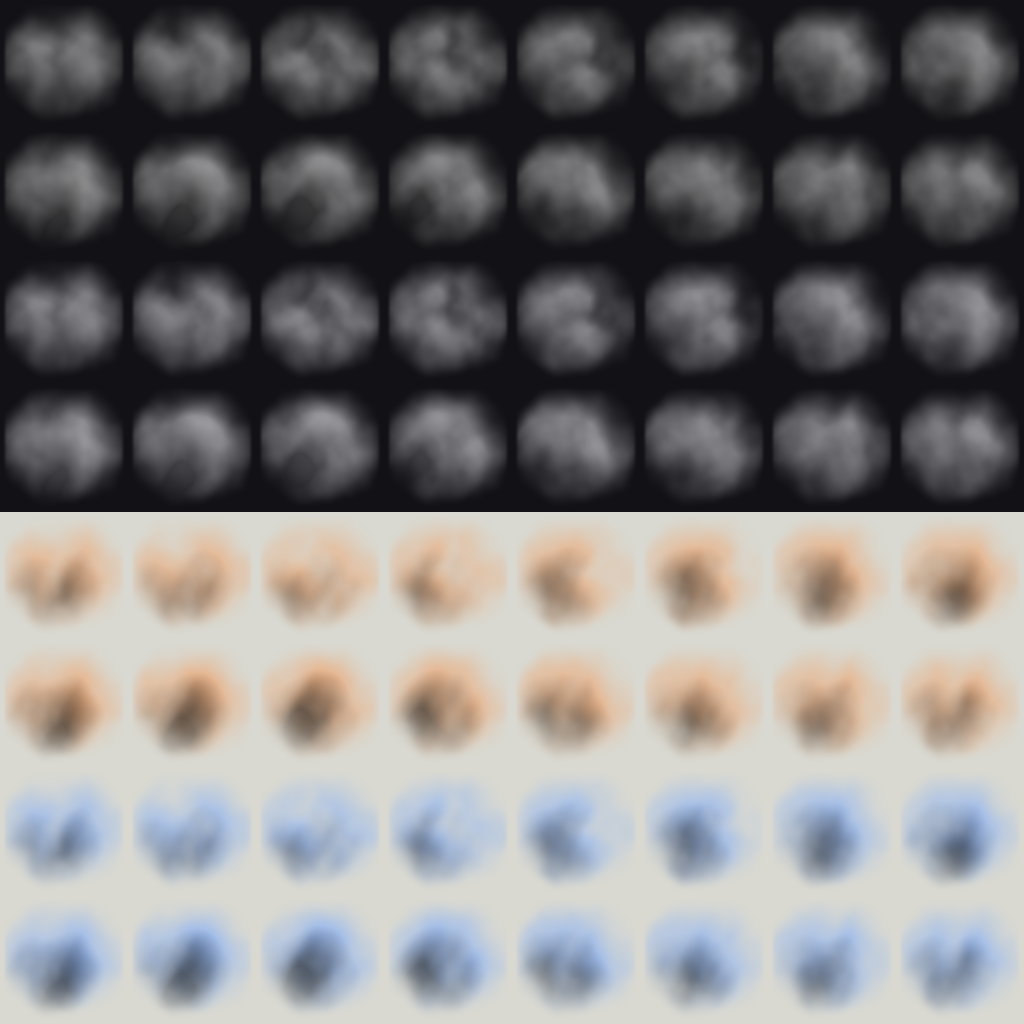
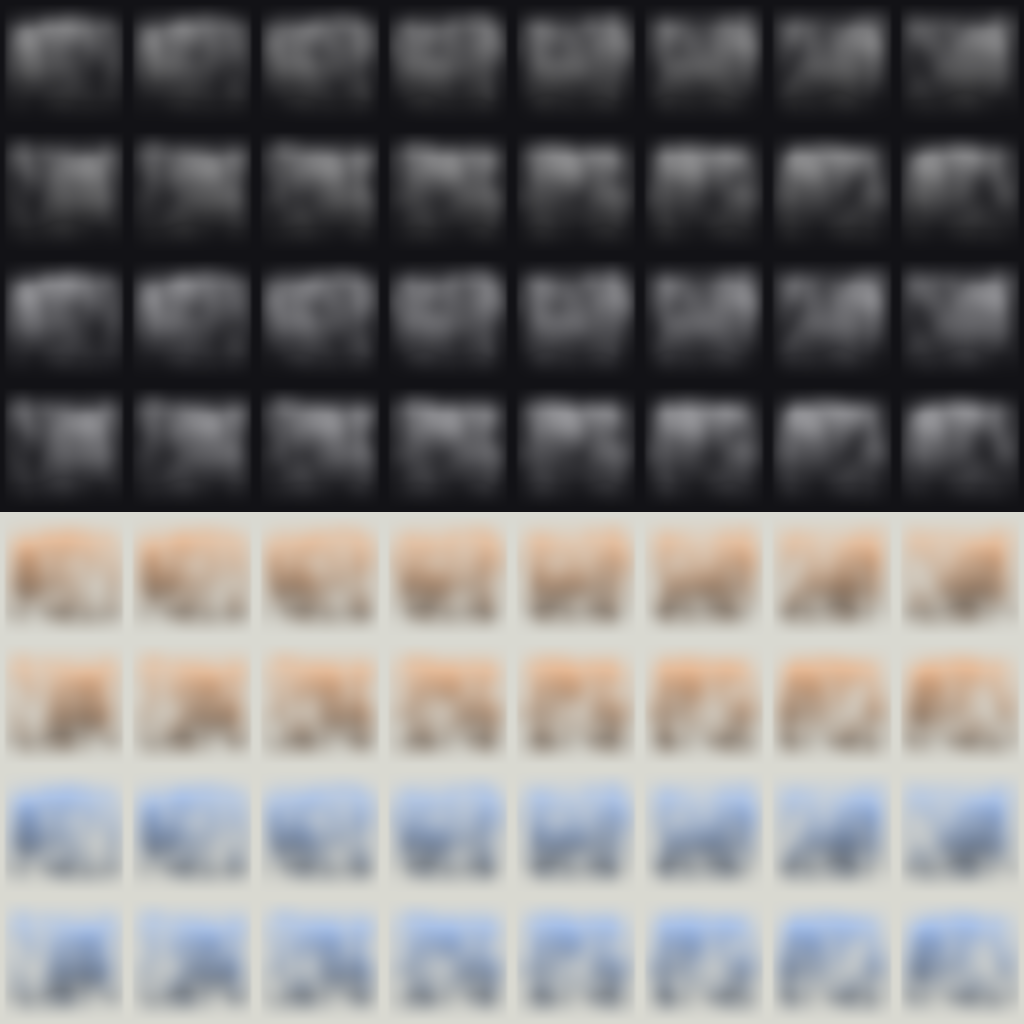
VFX ticket V1.1 send-back: VfxMist is now a wide soft layered bank with no outline (a noise volume drifting one period per loop, passes the check), and VfxDustRoll is rebuilt as dust spreading along the floor with the floor at the bottom of each cell and no vertical stretch (a hand-built cast of clo

diff --git a/art/scripts/vfx/tex_smoke.py b/art/scripts/vfx/tex_smoke.py
@@ -7,8 +7,10 @@ shadow), then reframed, eroded where a one-shot has to break into islands, close
 and packed into a 1024 x 1024 sheet with vfx/draw.py. White and grey, so the game tints it; the grey is the smoke's own
 light and shade. (Why not Cycles: a headless Cycles render of the fluid domain showed nothing from the baked cache, so
 the baked density is rendered by this file's own ray-marcher. The simulation itself is Blender's.)
-VfxMist is the exception: a fog bank is a 3D noise volume whose noise orbits (it closes the loop exactly), not a
-simulation; it is lit and packed by the same code.
+VfxMist and VfxDustRoll are the exceptions: the mist is a layered 3D noise volume whose noise drifts a whole period
+per loop (it closes exactly), and the dust is a made-up cast of billowing cloudlets flown out along the floor (six
+baked sims of a floor burst all rolled up instead of along). Neither is a simulation; both are lit and packed by the
+same code.
 
     blender -b --factory-startup --python art/scripts/vfx/tex_smoke.py -- [names] [--sim] [--post] [--cache DIR]
 
@@ -87,25 +89,24 @@ SIM["VfxSmokePlume"] = dict(
 )
 
 SIM["VfxDustRoll"] = dict(
-    grid=8, mode="oneshot", cell=128,
-    sim=dict(
-        domain_scale=(1.0, 0.7, 0.8), res=160, vorticity=0.35, buoy_density=1.0, buoy_heat=0.0, time_scale=1.3,
-        dissolve=0, frames=64, floor=True,
-        flows=[dict(pos=(0.0, 0.0, -0.8), radius=0.28, scale=(1.7, 1.7, 0.9), density=1.0, temperature=0.0,
-                    v_normal=4.5, v_random=1.0, on=1, off=11, grow=(1, 9, 0.2, 1.0))],
-        forces=[dict(type="TURBULENCE", strength=0.8, size=0.3, flow=0.5)],
-    ),
+    # NOT a gas simulation (said in the Log): five baked sims of a floor burst (a ball, two jets, jets under a low
+    # ceiling, a slumping block, a heavy block) each rolled the dust up into lobes, a bush or a film instead of
+    # along the floor. So this is the volume route: a cast of billowing cloudlets flown out along the floor with
+    # drag (the fast ones are the head, the slow ones the body, long wisps trail), lit, eroded and packed like the
+    # others.
+    grid=8, mode="oneshot", cell=128, procedural="dust", frames=64, dims=(260, 36, 104),
     look=dict(
-        sigma=lambda life: 0.16, blur=3, lump=(0.9, 1.1), blur_after=2, stretch_z=1.5, follow="x", fit_until=0.55,
-        erode=lambda life: 0.0 if life < 0.4 else 1.25 * ((life - 0.4) / 0.6) ** 1.2,
+        sigma=lambda life: 0.24, sun=1.0, amb=0.55, fill=0.18, k_sun=0.5, k_amb=0.12, follow="floor", fit=0.82,
+        box_alpha=0.15,
     ),
 )
 
 SIM["VfxMist"] = dict(
     # (not a gas simulation: fog does not come out of one. A baked smoke sim of a fog bank came out as cigarette
     # streaks, so the bank is a 3D noise volume whose noise orbits through space, which closes the loop exactly.)
-    grid=4, mode="loop", cell=256, procedural=True, frames=16, dims=(144, 20, 144),
-    look=dict(sigma=lambda life: 0.15, sun=1.0, amb=0.85, fill=0.22, k_sun=0.55, k_amb=0.12),
+    grid=4, mode="loop", cell=256, procedural=True, frames=16, dims=(192, 16, 172),
+    look=dict(sigma=lambda life: 0.11, sun=1.0, amb=0.9, fill=0.55, k_sun=0.13, k_amb=0.05, fit=0.97, tone=(0.28, 1.0), box_alpha=0.1, flatten=(0.0, 0.6),
+        calm_thin=(0.08, 0.5)),
 )
 
 
@@ -146,7 +147,8 @@ def build_domain(sim, cache):
         ds.dissolve_speed = sim["dissolve"]
         ds.use_dissolve_smoke_log = True
     for side in ("front", "back", "right", "left", "top", "bottom"):
-        setattr(ds, f"use_collision_border_{side}", side == "bottom" and sim.get("floor", False))
+        setattr(ds, f"use_collision_border_{side}",
+                (side == "bottom" and sim.get("floor", False)) or (side == "top" and sim.get("ceiling", False)))
     ds.use_adaptive_timesteps = True
     ds.cfl_condition = sim.get("cfl", 4.0)
     for k, v in sim.get("domain", {}).items():
@@ -170,7 +172,7 @@ def add_flows(sim):
             bpy.context.active_object.scale = f["size"]
         obj = bpy.context.active_object
         obj.name = f.get("name", "Flow")
-        base = tuple(f.get("scale", (1.0, 1.0, 1.0)))
+        base = tuple(f.get("scale", f.get("size", (1.0, 1.0, 1.0))))
         obj.scale = base
         if "grow" in f:  # (frame0, frame1, s0, s1): the source swells (a puff is born small; a ring spreads out)
             f0, f1, s0, s1 = f["grow"]
@@ -412,30 +414,149 @@ def erosion_field(dims, seed=11):
 
 
 def mist_volume(k, n, dims):
-    """Frame k of n of the fog bank: soft billows from layered noise that orbits (so frame n is frame 0 again),
-    inside a wobbly elliptical bank that is thin front to back and thicker low down. Index order (x, depth, up)."""
+    """Frame k of n of a bank of fog: several soft horizontal layers of different thickness and height, each broken
+    into long patches by noise that is stretched along the bank, the layers drifting in different directions (one
+    whole noise period per loop, so frame n is frame 0 again), all fading to nothing before the cell's edge so the
+    bank has no outline. Index order (x, depth, up)."""
     nx, ny, nz = dims
-    th = 2 * math.pi * k / n
     x = np.linspace(-1.0, 1.0, nx, dtype=np.float32)[:, None, None]
-    y = np.linspace(-0.3, 0.3, ny, dtype=np.float32)[None, :, None]
+    y = np.linspace(-0.25, 0.25, ny, dtype=np.float32)[None, :, None]
     z = np.linspace(-0.9, 0.9, nz, dtype=np.float32)[None, None, :]
     xx, yy, zz = np.broadcast_arrays(x, y, z)
-    big = N.fbm3(xx * 1.35 + 0.8 * math.cos(th), zz * 1.35 + 0.8 * math.sin(th), yy * 2.5 + 0.15 * math.sin(2 * th),
-                 octaves=3, seed=21, period=(None, None, None))
-    mid = N.fbm3(xx * 3.0 - 0.6 * math.cos(2 * th + 1.0), zz * 3.0 + 0.6 * math.sin(2 * th + 1.0),
-                 yy * 4.0 - 0.2 * math.cos(th), octaves=3, seed=57)
-    fine = N.fbm3(xx * 9.0 + 0.4 * math.sin(3 * th), zz * 9.0 + 0.4 * math.cos(3 * th), yy * 7.0, octaves=2, seed=93)
-    n01 = 0.50 + 0.66 * big + 0.24 * mid + 0.03 * fine
-    wob = N.fbm2(x[:, 0, :] * 1.3 + 3.0, z[:, 0, :] * 1.3 - 2.0, octaves=3, seed=5)[:, None, :]  # fixed: the bank's outline
-    r = np.sqrt((xx / 0.94) ** 2 + (zz / (0.70 + 0.10 * wob)) ** 2) * (1.0 + 0.34 * wob)
-    env = smoothstep(1.0, 0.15, r)
-    depth = np.exp(-((yy / 0.22) ** 2))
-    low = 1.0 + 0.40 * np.clip(-zz / 0.8, -1, 1)  # a little denser towards the ground
-    d = (env * depth * low * smoothstep(0.05, 0.95, n01)).astype(np.float32)
-    return blur3(blur3(blur3(d)))
+    u = (xx + 1.0) * 2.0  # four lattice cells across; the period is 2 cells = half the bank per loop
+    t = k / n
+    layers = (  # (height, thickness, strength, drift in periods per loop, noise seed, wobble phase)
+        (-0.50, 0.30, 0.85, 1, 11, 0.0),
+        (-0.12, 0.24, 0.65, -1, 23, 1.7),
+        (0.22, 0.30, 0.85, 1, 37, 3.1),
+        (0.58, 0.24, 0.55, -1, 51, 4.4),
+    )
+    total = np.zeros(xx.shape, dtype=np.float32)
+    for height, thick, strength, drift, seed, ph in layers:
+        # long patches along x (low frequency in x, higher in z), drifting one period per loop
+        patch = N.fbm3(u * 0.6 + 2.0 * drift * t, zz * 0.7 + seed, yy * 0.8, octaves=2, seed=seed,
+                       period=(2, None, None))
+        wave = 0.05 * N.fbm3(u * 0.5 + 2.0 * drift * t + 5.0, zz * 0.0 + seed, yy * 0.0, octaves=2, seed=seed + 5,
+                             period=(2, None, None)) + 0.03 * math.sin(2 * math.pi * (t * drift) + ph)
+        band = np.exp(-(((zz - height - wave) / thick) ** 2))
+        total += strength * band * smoothstep(-0.55, 0.6, patch)
+    veil = 0.10 * smoothstep(-0.3, 0.5, N.fbm3(u * 0.5 - 2.0 * t, zz * 1.0, yy, octaves=2, seed=3, period=(2, None, None)))
+    total = total + veil * np.exp(-((zz / 0.85) ** 2))
+    depth = np.exp(-((yy / 0.2) ** 2))
+    edge_x = smoothstep(1.0, 0.45, np.abs(xx)) ** 1.5  # fades to nothing before the side edges
+    edge_z = smoothstep(0.9, 0.4, np.abs(zz))
+    d = (total * depth * edge_x * edge_z).astype(np.float32)
+    return blur3(blur3(d))
+
+
+_DUST = {}
+
+
+def dust_puffs(seed=4):
+    """The made-up cast of a dust roll, fixed by a seed: per side a run of cloudlets that leave the hit at different
+    speeds (so the fastest are the head and the slow ones are the body), the front ones bigger and rising, plus long
+    low wisps trailing behind. Each is (x end, radius end, rise, launch, speed, hardness, lump offset, kind)."""
+    rng = np.random.default_rng(seed)
+    cast = []
+    for side, scale in ((1.0, 1.0), (-1.0, 0.86)):
+        for i in range(22):
+            far = rng.uniform(0.22, 1.0) ** 0.8  # how far it ends (1 = the head)
+            cast.append(dict(side=side, kind="puff", x=0.70 * scale * far + rng.normal(0, 0.03),
+                             r=0.05 + 0.17 * far ** 0.9 * rng.uniform(0.65, 1.25), rise=0.30 * far ** 2.2 * rng.uniform(0.4, 1.2),
+                             t0=rng.uniform(0.0, 0.07), tau=rng.uniform(0.12, 0.2), y=rng.normal(0, 0.07),
+                             amp=rng.uniform(0.75, 1.0), off=rng.uniform(0, 60, 3)))
+        for i in range(9):  # the body: low flat sheets of dust between the hit and the head
+            far = rng.uniform(0.12, 0.62)
+            cast.append(dict(side=side, kind="sheet", x=0.70 * scale * far, r=0.07 + 0.04 * rng.random(), rise=0.02 * rng.random(),
+                             t0=rng.uniform(0.0, 0.08), tau=rng.uniform(0.14, 0.22), y=rng.normal(0, 0.08),
+                             amp=rng.uniform(0.55, 0.8), off=rng.uniform(0, 60, 3)))
+        for i in range(10):  # the trailing wisps: long, low, faint, left behind
+            far = rng.uniform(0.2, 0.8)
+            cast.append(dict(side=side, kind="wisp", x=0.72 * scale * far, r=0.045 + 0.04 * rng.random(), rise=0.03 * rng.random(),
+                             t0=rng.uniform(0.02, 0.16), tau=rng.uniform(0.14, 0.24), y=rng.normal(0, 0.08),
+                             amp=rng.uniform(0.35, 0.6), off=rng.uniform(0, 60, 3)))
+    return cast
+
+
+def dust_volume(k, n, dims):
+    """Frame k of n of dust rolling along the floor from a hit at the middle. The cast of cloudlets (dust_puffs) is
+    flown out along the floor with drag (fast ones stop far, slow ones near), each growing and billowing with lumps
+    that belong to it, thinning as it spreads; the hit's own puff stands over the origin and sinks; then the rising
+    cut eats the whole thing from its thin parts first into islands. Index order (x, depth, up); z = 0 is the floor."""
+    if "lump" not in _DUST:
+        _DUST["lump"] = lump_tile(9)
+        _DUST["cast"] = dust_puffs()
+    tile, cast = _DUST["lump"], _DUST["cast"]
+    nx, ny, nz = dims
+    tau = k / (n - 1)
+    gx = np.linspace(-1.3, 1.3, nx, dtype=np.float32)
+    gy = np.linspace(-0.3, 0.3, ny, dtype=np.float32)
+    gz = np.linspace(0.0, 1.04, nz, dtype=np.float32)
+    free = np.ones((nx, ny, nz), dtype=np.float32)  # 1 - (union of cloudlets): they merge instead of adding up
+    sx, sy, sz = gx[1] - gx[0], gy[1] - gy[0], gz[1] - gz[0]
+
+    def splat(cx, cy, cz, rx, ry, rz, amp, off, lumpy_scale):
+        x0, x1 = max(0, int((cx - 2.3 * rx + 1.3) / sx)), min(nx, int((cx + 2.3 * rx + 1.3) / sx) + 2)
+        y0, y1 = max(0, int((cy - 2.3 * ry + 0.3) / sy)), min(ny, int((cy + 2.3 * ry + 0.3) / sy) + 2)
+        z0, z1 = 0, min(nz, int((cz + 2.3 * rz) / sz) + 2)
+        if x1 <= x0 or y1 <= y0 or z1 <= z0:
+            return
+        X = (gx[x0:x1] - cx)[:, None, None]
+        Y = (gy[y0:y1] - cy)[None, :, None]
+        Z = (gz[z0:z1] - cz)[None, None, :]
+        r2 = (X / rx) ** 2 + (Y / ry) ** 2 + (Z / rz) ** 2
+        # the lumps belong to the cloudlet: a noise cube looked up relative to its centre and size
+        qx = ((X / rx * lumpy_scale + off[0]).astype(np.int64)) % TILE_N
+        qy = ((Y / ry * lumpy_scale + off[1]).astype(np.int64)) % TILE_N
+        qz = ((Z / rz * lumpy_scale + off[2]).astype(np.int64)) % TILE_N
+        n3 = tile[qx, qy, qz]
+        body = np.exp(-r2 * (0.9 + 1.7 * (1.0 - n3)))  # the lumps pinch the surface in, so the edge is cauliflower
+        d = amp * np.clip(body * (0.35 + 1.3 * n3), 0, 1.4)
+        free[x0:x1, y0:y1, z0:z1] *= np.clip(1.0 - np.clip(d, 0, 1), 0, 1)
+
+    for c in cast:
+        t = tau - c["t0"]
+        if t <= 0:
+            continue
+        move = 1 - np.exp(-t / c["tau"])
+        cx = c["side"] * (0.02 + (c["x"] - 0.02) * move)
+        grow = 1 - np.exp(-t / (c["tau"] * 1.3))
+        R = 0.02 + (c["r"] - 0.02) * grow
+        cz = 0.7 * R + c["rise"] * move
+        if c["kind"] == "puff":
+            amp = c["amp"] * min(1.0, t / 0.025) * (0.03 / R) ** 0.55 * 1.9
+            splat(cx, c["y"], cz, R * 1.15, R * 1.3, R * 0.95, amp, c["off"], 13.0)
+        elif c["kind"] == "sheet":
+            amp = c["amp"] * min(1.0, t / 0.03) * (0.06 / R) ** 0.4
+            splat(cx, c["y"], 0.8 * R + c["rise"] * move, R * 3.4, R * 1.5, R * 1.25, amp, c["off"], 14.0)
+        else:  # a wisp: stretched along the floor and thin
+            amp = c["amp"] * min(1.0, t / 0.04) * (0.05 / R) ** 0.4
+            splat(cx, c["y"], 0.5 * R, R * 3.2, R * 1.2, R * 0.55, amp, c["off"], 16.0)
+    # the hit's own puff over the origin: stands up fast, then sinks into the roll
+    hz = 0.09 + 0.10 * np.exp(-tau * 6.0)
+    splat(0.0, 0.0, hz, 0.13 + 0.05 * tau, 0.15, hz * 1.1, 1.15 * (1 - smoothstep(0.08, 0.34, tau)), np.array([5.0, 9.0, 13.0]), 8.0)
+    d = 1.0 - free
+    # the rising cut: eaten from its thin parts first, in lumps, islands at the end
+    if tau > 0.40:
+        cut = 3.4 * ((tau - 0.40) / 0.60) ** 1.1
+        eat = N.fbm3(gx[:, None, None] * 4.0 + 3.0 * tau, gz[None, None, :] * 5.0, gy[None, :, None] * 4.0, octaves=4, seed=77)
+        d = np.maximum(d - cut * (0.12 + 0.55 * (0.5 + eat)), 0.0)
+    return blur3(d.astype(np.float32))
 
 
 def render_frames(name, work, spec):
+    if spec.get("procedural") == "dust":
+        look = spec["look"]
+        n = spec["frames"]
+        rads, alphas = [], []
+        for k in range(n):
+            d = dust_volume(k, n, spec["dims"])
+            sigma = d * look["sigma"](k / n)
+            rad, alpha = march(sigma, light_depth(sigma), look)
+            rads.append(rad)
+            alphas.append(alpha)
+            print(f"[tex_smoke] {name} lit {k + 1}/{n}", flush=True)
+        return np.stack(rads), np.stack(alphas), {}
     if spec.get("procedural"):
         look = spec["look"]
         n = spec["frames"]
@@ -541,7 +662,7 @@ def frame_images(rads, alphas, spec, cell):
     follow = look.get("follow", "")
     until = max(1, int(n * look.get("fit_until", 1.0)))  # the window is fitted to the frames up to here
     sized = [b for b in boxes[:until] if b]
-    if follow:
+    if follow in ("xy", "x"):
         side = max(max((b[1] - b[0]) * stretch_x, (b[3] - b[2]) * stretch) for b in sized) / fit
     else:
         ux0, ux1 = min(b[0] for b in good), max(b[1] for b in good)
@@ -559,11 +680,14 @@ def frame_images(rads, alphas, spec, cell):
         pad = np.concatenate([np.repeat(v[:1], r), v, np.repeat(v[-1:], r)])
         return np.convolve(pad, np.ones(2 * r + 1) / (2 * r + 1), mode="valid")
 
-    if follow:
+    if follow in ("xy", "x"):
         cxs, cys = smooth(cxs), smooth(cys)
         if follow == "x":
             floor = max(b[3] for b in good)
             cys = np.full(n, floor + 0.04 * side / stretch - side / stretch / 2)
+    elif follow == "floor":  # one fixed window, the floor (the lowest row ever lit) kept just above the cell's bottom
+        cxs = np.full(n, (ux0 + ux1) / 2)
+        cys = np.full(n, uy1 + 0.04 * side / stretch - side / stretch / 2)
     else:
         cxs = np.full(n, (ux0 + ux1) / 2 + look.get("shift", (0, 0))[0] * side)
         cys = np.full(n, (uy0 + uy1) / 2 + look.get("shift", (0, 0))[1] * side)
@@ -576,6 +700,36 @@ def frame_images(rads, alphas, spec, cell):
         r = resample(ra[k], ox, oy, step, cell, stretch, stretch_x)
         rgb = np.clip(r / np.maximum(a, 1e-4), 0, 4)
         out.append(np.concatenate([np.repeat(rgb[..., None], 3, axis=2), a[..., None]], axis=-1))
+    return out
+
+
+def flatten(frames, amount, vgrad):
+    """Fog is lit softly and evenly: pull each frame's grey toward its own mean (so deep shadow pockets do not make
+    the thin edge look like a bright outline) and add a gentle lighter-above, darker-below slope."""
+    out = []
+    for f in frames:
+        a = f[..., 3]
+        mean = (f[..., 0] * a).sum() / max(a.sum(), 1e-4)
+        v = mean + (f[..., 0] - mean) * (1 - amount)
+        h = f.shape[0]
+        slope = 1.0 + vgrad * (0.5 - (np.arange(h, dtype=np.float32) / h))[:, None]
+        g = f.copy()
+        g[..., :3] = (v * slope)[..., None]
+        out.append(g)
+    return out
+
+
+def calm_thin(frames, a0, a1):
+    """The thin edge of a cloud is lit with nothing in front of it, so it comes out brighter than the body and, once
+    the game lays it over a floor, shows as a bright rim round the sprite. Thin parts take the frame's own mean grey."""
+    out = []
+    for f in frames:
+        a = f[..., 3]
+        mean = (f[..., 0] * a).sum() / max(a.sum(), 1e-4)
+        k = smoothstep(a0, a1, a)
+        g = f.copy()
+        g[..., :3] = (f[..., 0] * k + mean * (1 - k))[..., None]
+        out.append(g)
     return out
 
 
@@ -605,6 +759,10 @@ def build_sheet(name, work, spec):
     cell = SHEET // spec["grid"]
     rads, alphas, meta = render_frames(name, work, spec)
     frames = frame_images(rads, alphas, spec, cell)
+    if "calm_thin" in spec["look"]:
+        frames = calm_thin(frames, *spec["look"]["calm_thin"])
+    if "flatten" in spec["look"]:
+        frames = flatten(frames, *spec["look"]["flatten"])
     frames = tonemap(frames, spec["look"])
     win = edge_window(cell)
     for f in frames:

diff --git a/docs/handoff/vfx-rework-plan-2026-11-16.md b/docs/handoff/vfx-rework-plan-2026-11-16.md
@@ -618,3 +618,4 @@ verdict where there was a gate.)
 
   Against the references (smoke_dust.toml and its sheets; the same day's eyes, not the game's). Puff against the dust-ring frames (smoke_dust_impact_fine, 0.5 to 0.75 s): the reference is a rosette of cauliflower lumps with radial streaks that breaks into clumps and sags; ours is a rounder lumpy ball with a lit top and a dark belly that thins to wisps, but it has no hollow middle and no radial streaks, and it ends in one or two wisps rather than a field of islands (isl 1 to 2). Plume against the rising-smoke frames (smoke_dust_plume): the reference is a thin braided stem that rolls into paired curls and one big billow; ours is a fat ragged column with lumpy shading and no paired curls (the sim's own curls are lost under the lumps and the sideways stretch), so it reads as a column of smoke but not as that one. Dust against the stock bursts (smoke_dust_impact_fine, 14 to 15.5 s, and the ring): the reference is a flat wedge with a pointed tail or a hollow rosette in the ground's tan; ours is a floor-hugging mound that rises into a streaky, hairy-topped bush (the sim's sinking fingers survive the blur) and is not a ring or a wedge; it does not roll along the floor. Mist against the fog frames (smoke_dust_fog): the reference is an edgeless mass with slow curls and thin filaments at the edges; ours is a compact soft patch with a clear outline, much smaller than a fog bank, and it churns in place rather than curling.
   What is weak: the dust is the weakest (streaky top, no real roll, last frames near empty because the sim has thinned out); the plume has no stem and no paired curls; the mist is a blob, not a bank; the puff's last third is mostly one small wisp. The vertical stretch of the dust (1.5) and the sideways stretch of the plume (1.2) are art-directed to get past the fill check, not physics; the game should scale those particles back. The erosion and lumps run on the density in numpy (the sim only fades), so the break-up edges are the noise's, not the gas's. Not done and not checked: nothing was played in the engine (no flipbook was seen in game or on a lit floor), the old VfxSmoke, VfxDust and VfxWisp stay untouched and in use, and a re-look in the booth over the realm's real light is owed. By eye the puff and plume are clearly better than VfxSmoke (a 19% soft grey ball with no lumps); the dust is larger, shaded and erodes where VfxDust (31%, never breaks up) does not, but it is not clearly better by eye, so keep VfxDust until the pilot decides; the mist is new (no old equivalent). Old names stay until Stage 4 in any case.
+- 2026-11-17, V1.1 send-back rework: VfxDustRoll and VfxMist (art/scripts/vfx/tex_smoke.py, the two PNGs and their previews; nothing to sync or import). VfxSmokePuff and VfxSmokePlume unchanged (accepted). `VfxMist` is rebuilt as a bank: five hand-set soft layers (thickness 0.24 to 0.30 of the bank, low to high) broken into long patches by noise stretched along the bank, each layer drifting one whole noise period per loop (alternating directions, so frame 16 is frame 0 again), fading to nothing before the cell's sides and top and bottom so there is no outline, lit softly from above (darker below) and with the thin edge pulled to the frame's mean grey so no bright rim shows round it. Still not a simulation (the plan's fallback, same reason as before). Numbers: fill 77% (76% mean), edge 0/16, tone 0.128, motion 0.019 (wrap 0.017), PASS. Against smoke_dust_fog: the reference is an edgeless mass with slow curls and bright and dark sides; ours is now a wide soft haze with no outline, brighter at the top and drifting in layers, but its layers are faint (the bands read as a gentle horizontal grain, not clear strata), it fills the whole cell like a block of haze with slightly squared corners, and it has no curls. `VfxDustRoll` is rebuilt as dust spreading along the floor from a hit, seen from the side, with the floor kept at the bottom of every cell and NO vertical stretch. It is NOT a gas simulation: the baked sims tried (a swelling ball on the floor, two outward jets along it, jets under a low closed ceiling, a heavy block slumping with positive and with negative buoyancy density, a long low block) each either rolled the dust up into lobes or a bush or slumped it into a film a few voxels thin that could not be read; the plan's own fallback applies. So it is the volume route: a made-up cast of about 40 billowing cloudlets per side flown out along the floor with drag (the fast, big, higher ones are the head and outrun the rest, the slow ones are the body, low flat sheets fill between, long faint wisps trail), each with its own noise lumps carried with it, the hit's own puff standing over the origin and sinking, lit with the same ray-march, then eaten from its thin parts by a rising noise cut into islands. Numbers: fill 24% at the largest cell (mean 14%), edge 0/64, tone 0.159, motion 0.004, erosion cov 10%>1% islands 1>5; the check FAILS on fill (needs 55%) and motion (needs 0.01), PASS on size, edge, tone and erosion. Why those two fail and are left failing: a mass that is honestly low and wide is about 0.4 as tall as it is wide at its tallest, so with 82% of the cell width used (the rest is the cell margin and the edge fade) its box is 82% x 30% = about 25% of the cell, and a mass that covers a quarter of the cell cannot move the cell-wide mean step above 0.01. It could only pass by stretching it tall or by cutting the cell to a part of the cloud, which was ruled out. Against smoke_dust_impact_fine (the 14 to 15.5 s ground sheet and the ring): the reference is a flat wedge with a pointed tail on one side and puffs on the other, hollow in the ring; ours is two lumpy mounds spreading apart along the floor (the head higher and bigger, the body a lower saddle between them, wisps at the end), fast at the front and thinning into islands, so it does read as dust going out along the ground, but there is no forward curl to the head (the head is a lump, not a roll), the lumps are noise lumps (round and a little soft, not torn), and the tail is not a long pointed wedge. Not clearly better than the old VfxDust by eye, but it is the only one of the two that erodes, spreads along the floor and is lit; the old VfxDust stays in use until the pilot or the owner chooses. Plain verdict for the coordinator: the mist is no longer a blob but is a modest haze; the dust still fails two of the six checks and has no curl, so by the send-back's own rule it should go to the owner as it stands. Not seen in the engine.

diff --git a/docs/agent-memory/smoke-sim-headless.md b/docs/agent-memory/smoke-sim-headless.md
@@ -30,3 +30,9 @@ What was learned the hard way:
   following the cloud (puff) or its floor (dust) because the sim drifts and the texture check wants 80% fill.
 - A steady column or fog gives almost no per-frame change when it is opaque (the texture check's motion floor is
   0.01): keep the sigma low so alpha varies inside it.
+- **Mantaflow's `buoyancy density` (alpha): POSITIVE makes the smoke RISE here, NEGATIVE makes it sink.** A heavy block
+  with alpha 6 stood up into a mushroom on the ceiling; alpha -4 slumped into a thin film along the floor. Jets,
+  balls and blocks all failed to give "dust rolling along the floor" (they roll up into lobes or a bush, or slump
+  into a film too thin to read), so VfxDustRoll is a hand-built cast of cloudlets, not a sim.
+- Window and cell edge: a one-shot's window is fitted to its box, but the texture check wants 4 px clear and
+  `edge_window` ramps over 10 more, so keep `fit` at 0.8 to 0.9 or the leading edge shows a hard vertical cut.
